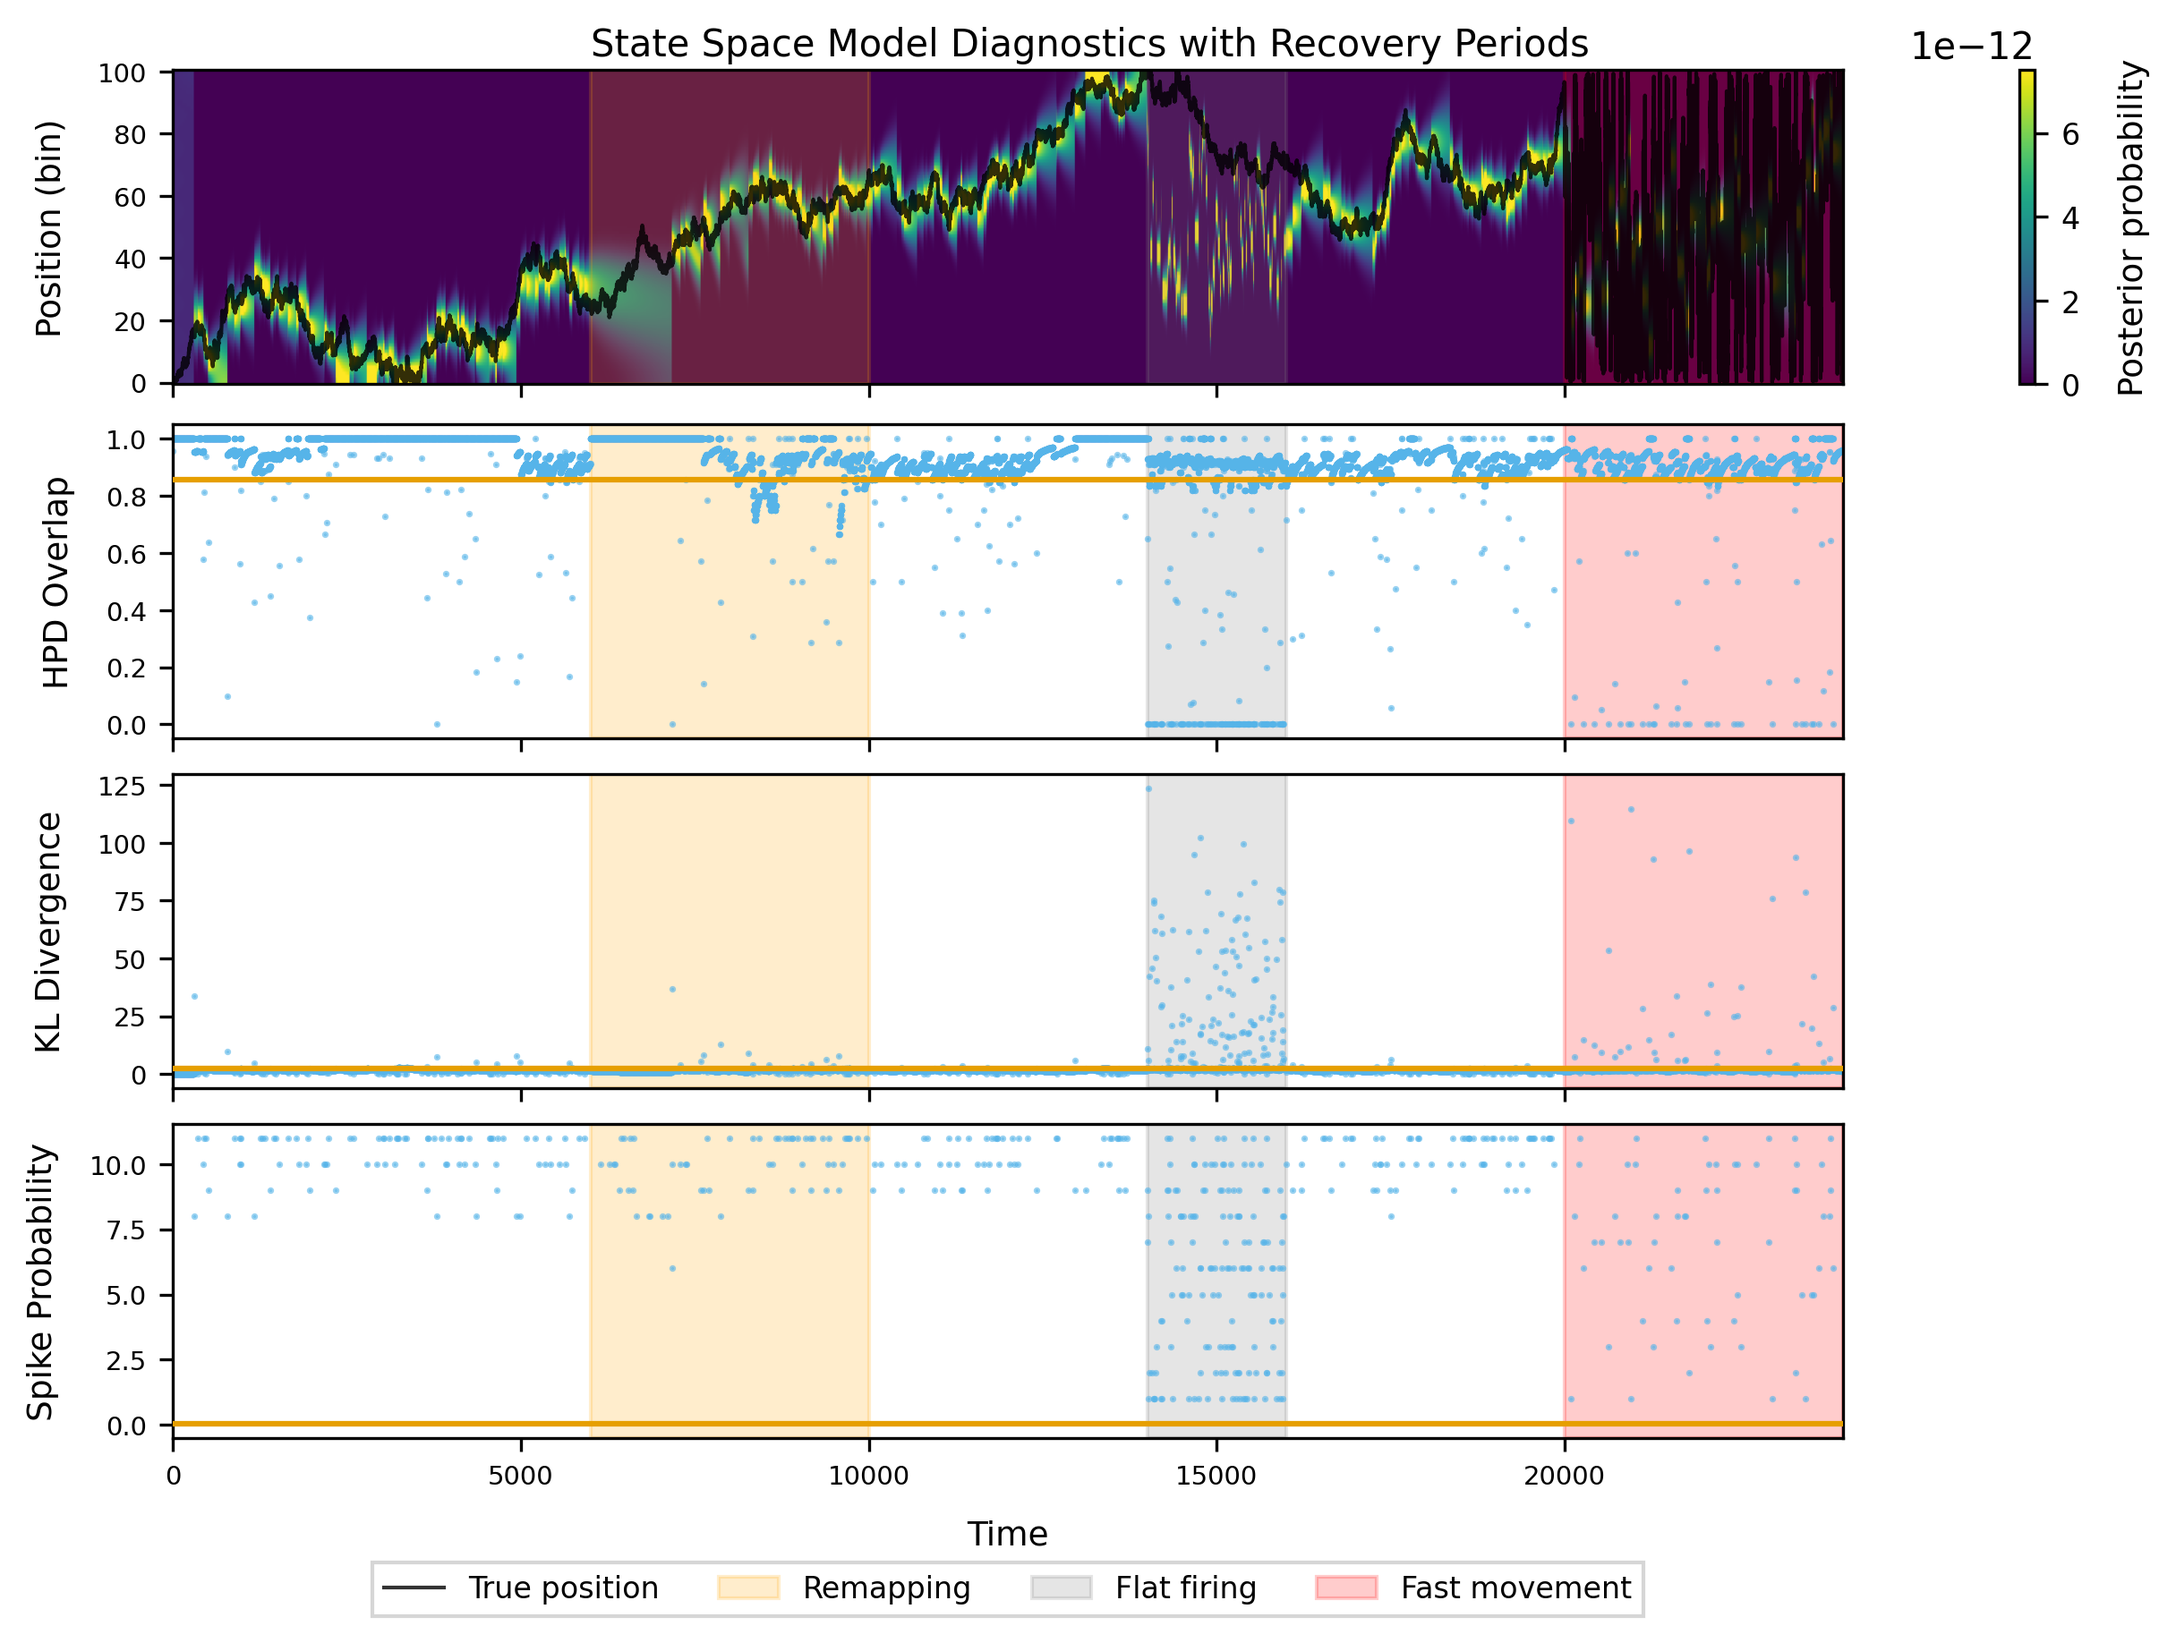
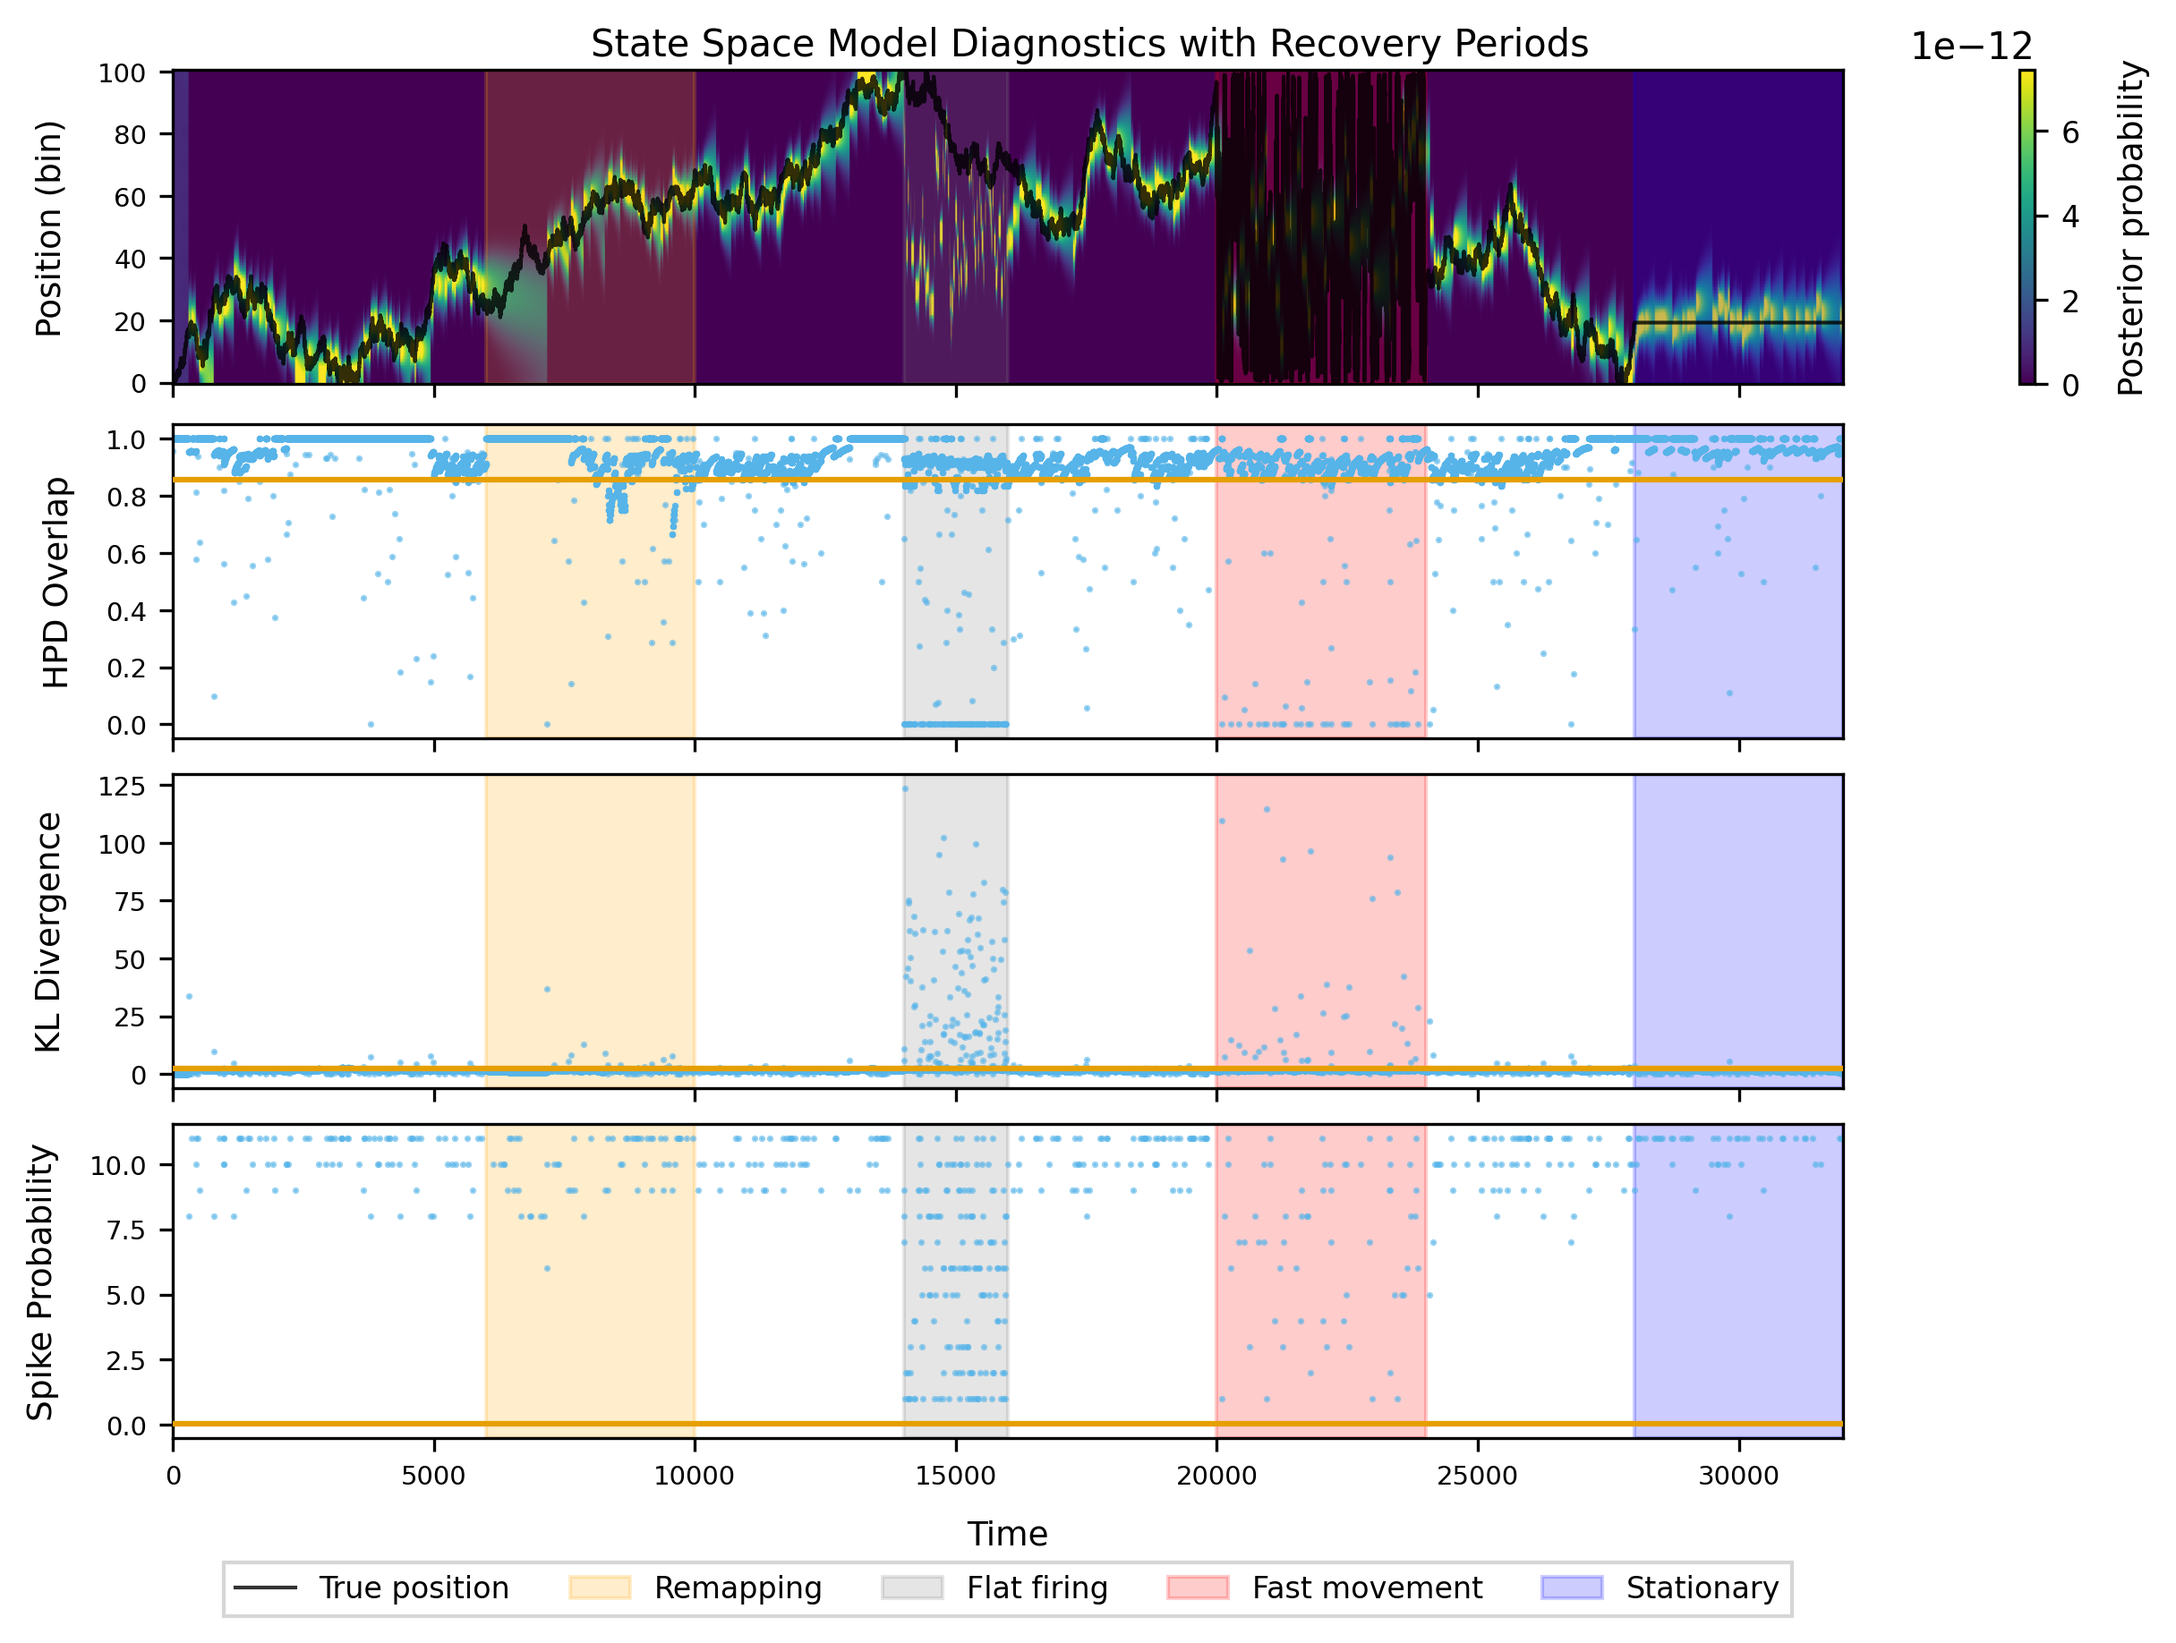
Add slow movement misfit phase to simulation
Extended the simulation and analysis scripts to include a new 'slow movement misfit' phase and an additional recovery period. Updated transition matrix handling to support phase-specific decoder dynamics, and revised plotting and diagnostics to reflect the new phases. Updated parameters and documentation accordingly.

diff --git a/scripts/sim.py b/scripts/sim.py
@@ -91,16 +91,21 @@ class DecodeParams:
     # 14k-16k: Flat firing misfit (2k)
     # 16k-20k: Clean recovery (4k)
     # 20k-24k: Fast movement misfit (4k)
+    # 24k-28k: Clean recovery (4k)
+    # 28k-32k: Slow movement misfit (4k)
     T_remap_start: int = 6_000
     T_remap_end: int = 10_000
     T_recovery1_end: int = 14_000
     T_flat_end: int = 16_000
     T_recovery2_end: int = 20_000
     T_fast_end: int = 24_000
-    sigx_pred: float = 0.5  # decoder's dynamics std (kept fixed, even in part 3)
-    sigx_true_fast: float = (
-        10.0  # true dynamics std in part 3 (20x faster!) - optimized for strong misfit
-    )
+    T_recovery3_end: int = 28_000
+    T_slow_end: int = 32_000
+    sigx_pred: float = 0.5  # decoder's dynamics std (baseline)
+    sigx_pred_fast_phase: float = 0.1  # narrow decoder for fast phase (5x too narrow!)
+    sigx_pred_slow_phase: float = 20.0  # inflated decoder for slow phase (40x too broad!)
+    sigx_true_fast: float = 10.0  # true dynamics std in fast phase (100x faster than decoder!)
+    sigx_true_slow: float = 0.0  # true dynamics std in slow phase (completely stationary!)
     xs_min: int = 0
     xs_max: int = 100
     xs_step: int = 1
@@ -234,6 +239,10 @@ def decode_and_diagnostics(
     remap_window: tuple[int, int],
     remap_from_to: tuple[tuple[int, int], ...] | tuple[int, int],
     rng: np.random.Generator | None = None,
+    osm_narrow: NDArray[np.floating] | None = None,
+    narrow_window: tuple[int, int] | None = None,
+    osm_inflated: NDArray[np.floating] | None = None,
+    inflate_window: tuple[int, int] | None = None,
 ) -> dict[str, NDArray]:
     """Run the Bayesian filter with per-time, per-cell diagnostics.
 
@@ -254,9 +263,20 @@ def decode_and_diagnostics(
     lambda_ratio = normalize(lam_grid_all, axis=1)  # per-bin cell-fractions, rows sum to 1
 
     start_r, end_r = remap_window
+    start_narrow, end_narrow = narrow_window if narrow_window else (n_time + 1, n_time + 1)
+    start_inflate, end_inflate = inflate_window if inflate_window else (n_time + 1, n_time + 1)
+
     for t in range(1, n_time):
+        # Select OSM based on which window we're in
+        if osm_narrow is not None and start_narrow <= t <= end_narrow:
+            current_osm = osm_narrow
+        elif osm_inflated is not None and start_inflate <= t <= end_inflate:
+            current_osm = osm_inflated
+        else:
+            current_osm = osm
+
         # Predict (prior)
-        prior = normalize(post[t - 1] @ osm)  # (n_bins,)
+        prior = normalize(post[t - 1] @ current_osm)  # (n_bins,)
 
         # Likelihood grid for this time's counts (vectorized over bins & cells)
         likelihood = likelihood_grid_for_counts(xs, pf_centers, pf_width, rate_scale, spikes[t])
@@ -369,7 +389,7 @@ def plot_original(
         Time window where cell remapping occurs (start, end)
     phase_boundaries : tuple[int, ...] | None
         Boundaries between phases: (T_remap_start, T_remap_end, T_recovery1_end,
-        T_flat_end, T_recovery2_end, T_fast_end)
+        T_flat_end, T_recovery2_end, T_fast_end, T_recovery3_end, T_slow_end)
     """
     n_time = metrics["post"].shape[0]
     fig, axes = plt.subplots(4, 1, figsize=(8, 6), constrained_layout=True, sharex=True, dpi=150)
@@ -392,7 +412,7 @@ def plot_original(
     # Add phase boundaries to all axes, but only add labels to first axis for legend
     for i, ax in enumerate(axes):
         # Highlight phase boundaries with different colors for misfit vs recovery
-        if phase_boundaries is not None and len(phase_boundaries) == 6:
+        if phase_boundaries is not None and len(phase_boundaries) == 8:
             (
                 t_remap_start,
                 t_remap_end,
@@ -400,6 +420,8 @@ def plot_original(
                 t_flat_end,
                 t_recovery2_end,
                 t_fast_end,
+                t_recovery3_end,
+                t_slow_end,
             ) = phase_boundaries
 
             # Only add labels for the first axis (for legend)
@@ -426,6 +448,13 @@ def plot_original(
                 alpha=0.2,
                 color="red",
                 label="Fast movement" if add_labels else "",
+            )
+            ax.axvspan(
+                t_recovery3_end,
+                t_slow_end,
+                alpha=0.2,
+                color="blue",
+                label="Stationary" if add_labels else "",
             )
 
     axes[1].plot(
@@ -473,7 +502,7 @@ def plot_original(
         frameon=True,
         fancybox=False,
         shadow=False,
-        ncol=4,
+        ncol=5,
     )
 
     fig.suptitle(title, fontsize=10, y=0.995)
@@ -562,9 +591,11 @@ def run_demo(params: DecodeParams) -> None:
     # Ensure pf_centers is initialized
     assert params.pf_centers is not None, "pf_centers must be initialized"
 
-    # Grid & transition (decoder keeps sigx_pred fixed across all parts)
+    # Grid & transition matrices
     xs = np.arange(params.xs_min, params.xs_max + params.xs_step, params.xs_step, dtype=float)
     osm = gaussian_transition_matrix(xs, params.sigx_pred)
+    osm_narrow = gaussian_transition_matrix(xs, params.sigx_pred_fast_phase)
+    osm_inflated = gaussian_transition_matrix(xs, params.sigx_pred_slow_phase)
 
     # Generate all phases with recovery periods
     phases = []
@@ -630,6 +661,8 @@ def run_demo(params: DecodeParams) -> None:
     x_last = x_true_phase[-1]
 
     # Phase 6: Fast movement misfit (T_recovery2_end - T_fast_end)
+    # Transition model misfit: decoder uses narrow OSM (sigx=0.1), animal moves fast (sigx=10.0)
+    # Prior will be far too narrow/concentrated compared to actual movement (100x mismatch!)
     n_time = params.T_fast_end - params.T_recovery2_end
     x_true_phase = simulate_walk(
         n_time, params.sigx_true_fast, x_last, params.xs_min, params.xs_max, rng
@@ -639,6 +672,32 @@ def run_demo(params: DecodeParams) -> None:
     )
     phases.append((x_true_phase, spikes_phase))
     phase_labels.append("Fast Movement Misfit")
+    x_last = x_true_phase[-1]
+
+    # Phase 7: Recovery 3 (T_fast_end - T_recovery3_end)
+    n_time = params.T_recovery3_end - params.T_fast_end
+    x_true_phase = simulate_walk(
+        n_time, params.sigx_pred, x_last, params.xs_min, params.xs_max, rng
+    )
+    spikes_phase = simulate_spikes_position_tuned(
+        x_true_phase, params.pf_centers, params.pf_width, params.rate_scale, rng
+    )
+    phases.append((x_true_phase, spikes_phase))
+    phase_labels.append("Clean Recovery")
+    x_last = x_true_phase[-1]
+
+    # Phase 8: Slow movement misfit (T_recovery3_end - T_slow_end)
+    # Transition model misfit: decoder uses inflated OSM (sigx=20.0), animal stationary (sigx=0.0)
+    # Prior will be far too broad/diffuse compared to actual lack of movement
+    n_time = params.T_slow_end - params.T_recovery3_end
+    x_true_phase = simulate_walk(
+        n_time, params.sigx_true_slow, x_last, params.xs_min, params.xs_max, rng
+    )
+    spikes_phase = simulate_spikes_position_tuned(
+        x_true_phase, params.pf_centers, params.pf_width, params.rate_scale, rng
+    )
+    phases.append((x_true_phase, spikes_phase))
+    phase_labels.append("Slow Movement Misfit")
 
     # Concatenate all phases
     x_true = np.concatenate([x for x, _ in phases], axis=0)
@@ -654,6 +713,10 @@ def run_demo(params: DecodeParams) -> None:
         rate_scale=params.rate_scale,
         remap_window=params.remap_window,
         remap_from_to=params.remap_from_to,
+        osm_narrow=osm_narrow,
+        narrow_window=(params.T_recovery2_end, params.T_fast_end),
+        osm_inflated=osm_inflated,
+        inflate_window=(params.T_recovery3_end, params.T_slow_end),
     )
 
     # Thresholds from clean baseline window (first 6k timesteps, before remapping starts)
@@ -668,6 +731,8 @@ def run_demo(params: DecodeParams) -> None:
         params.T_flat_end,
         params.T_recovery2_end,
         params.T_fast_end,
+        params.T_recovery3_end,
+        params.T_slow_end,
     )
     plot_original(
         xs,

diff --git a/scripts/analyze_sim.py b/scripts/analyze_sim.py
@@ -46,9 +46,14 @@ def analyze_simulation() -> None:
     print(f"  {params.T_recovery1_end:,} - {params.T_flat_end:,}: Flat firing misfit")
     print(f"  {params.T_flat_end:,} - {params.T_recovery2_end:,}: Recovery 2")
     print(f"  {params.T_recovery2_end:,} - {params.T_fast_end:,}: Fast movement misfit")
+    print(f"  {params.T_fast_end:,} - {params.T_recovery3_end:,}: Recovery 3")
+    print(f"  {params.T_recovery3_end:,} - {params.T_slow_end:,}: Slow movement misfit")
     print("\nParameters:")
-    print(f"  sigx_pred (decoder): {params.sigx_pred}")
+    print(f"  sigx_pred (decoder baseline): {params.sigx_pred}")
+    print(f"  sigx_pred_fast_phase (decoder narrow): {params.sigx_pred_fast_phase}")
+    print(f"  sigx_pred_slow_phase (decoder inflated): {params.sigx_pred_slow_phase}")
     print(f"  sigx_true_fast (fast phase): {params.sigx_true_fast}")
+    print(f"  sigx_true_slow (slow phase): {params.sigx_true_slow}")
     print(f"  rate_scale: {params.rate_scale}")
     print("  flat_rate: 7e-3")
     n_remapped = len(params.remap_from_to) if isinstance(params.remap_from_to[0], tuple) else 1
@@ -56,9 +61,11 @@ def analyze_simulation() -> None:
 
     rng = np.random.default_rng(params.base_seed)
 
-    # Grid & transition
+    # Grid & transition matrices
     xs = np.arange(params.xs_min, params.xs_max + params.xs_step, params.xs_step, dtype=float)
     osm = gaussian_transition_matrix(xs, params.sigx_pred)
+    osm_narrow = gaussian_transition_matrix(xs, params.sigx_pred_fast_phase)
+    osm_inflated = gaussian_transition_matrix(xs, params.sigx_pred_slow_phase)
 
     # Generate all phases with recovery periods
     phases = []
@@ -126,6 +133,28 @@ def analyze_simulation() -> None:
         x_true_phase, params.pf_centers, params.pf_width, params.rate_scale, rng
     )
     phases.append((x_true_phase, spikes_phase))
+    x_last = x_true_phase[-1]
+
+    # Phase 7: Recovery 3 (T_fast_end - T_recovery3_end)
+    n_time = params.T_recovery3_end - params.T_fast_end
+    x_true_phase = simulate_walk(
+        n_time, params.sigx_pred, x_last, params.xs_min, params.xs_max, rng
+    )
+    spikes_phase = simulate_spikes_position_tuned(
+        x_true_phase, params.pf_centers, params.pf_width, params.rate_scale, rng
+    )
+    phases.append((x_true_phase, spikes_phase))
+    x_last = x_true_phase[-1]
+
+    # Phase 8: Slow movement misfit (T_recovery3_end - T_slow_end)
+    n_time = params.T_slow_end - params.T_recovery3_end
+    x_true_phase = simulate_walk(
+        n_time, params.sigx_true_slow, x_last, params.xs_min, params.xs_max, rng
+    )
+    spikes_phase = simulate_spikes_position_tuned(
+        x_true_phase, params.pf_centers, params.pf_width, params.rate_scale, rng
+    )
+    phases.append((x_true_phase, spikes_phase))
 
     # Concatenate all phases
     spikes = np.vstack([s for _, s in phases])
@@ -137,6 +166,8 @@ def analyze_simulation() -> None:
     print(f"  Flat mean spikes/cell/time: {np.mean(phases[3][1]):.4f}")
     print(f"  Recovery2 mean spikes/cell/time: {np.mean(phases[4][1]):.4f}")
     print(f"  Fast mean spikes/cell/time: {np.mean(phases[5][1]):.4f}")
+    print(f"  Recovery3 mean spikes/cell/time: {np.mean(phases[6][1]):.4f}")
+    print(f"  Slow mean spikes/cell/time: {np.mean(phases[7][1]):.4f}")
 
     # Decode
     print("\nRunning decoder...")
@@ -149,6 +180,10 @@ def analyze_simulation() -> None:
         rate_scale=params.rate_scale,
         remap_window=params.remap_window,
         remap_from_to=params.remap_from_to,
+        osm_narrow=osm_narrow,
+        narrow_window=(params.T_recovery2_end, params.T_fast_end),
+        osm_inflated=osm_inflated,
+        inflate_window=(params.T_recovery3_end, params.T_slow_end),
     )
 
     # Define phase windows
@@ -158,6 +193,8 @@ def analyze_simulation() -> None:
     flat_window = slice(params.T_recovery1_end, params.T_flat_end)
     recovery2_window = slice(params.T_flat_end, params.T_recovery2_end)
     fast_window = slice(params.T_recovery2_end, params.T_fast_end)
+    recovery3_window = slice(params.T_fast_end, params.T_recovery3_end)
+    slow_window = slice(params.T_recovery3_end, params.T_slow_end)
 
     # Baseline statistics
     baseline_hpdo = metrics["HPDO"][baseline_window].ravel()
@@ -182,6 +219,8 @@ def analyze_simulation() -> None:
         ("FLAT FIRING MISFIT", flat_window),
         ("RECOVERY 2 (Clean)", recovery2_window),
         ("FAST MOVEMENT MISFIT", fast_window),
+        ("RECOVERY 3 (Clean)", recovery3_window),
+        ("SLOW MOVEMENT MISFIT", slow_window),
     ]
 
     for phase_name, phase_slice in phases_to_analyze:
